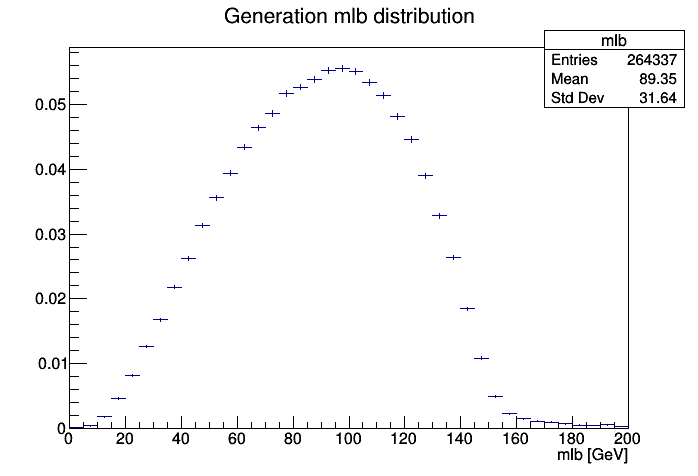
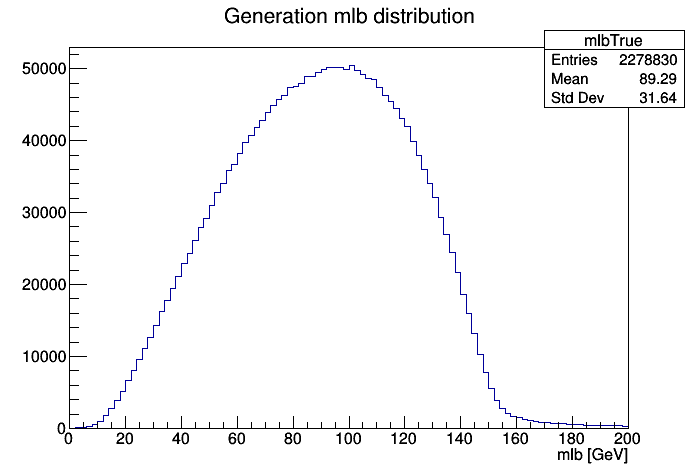
Added new smearing distributions

diff --git a/neuralNetwork/generateDistributions.py b/neuralNetwork/generateDistributions.py
@@ -1,0 +1,225 @@
+
+import ROOT as r
+import os,  sys, fnmatch
+import math
+
+"""
+Code used to generate true simulation/reco distribution from Latino ttbar files used to perform the smearing
+"""
+#===============================================================================0
+#PROGRESS BAR
+#===============================================================================0
+
+def updateProgress(progress):
+    barLength = 20 # Modify this to change the length of the progress bar                                                                                                                                          
+    status = ""
+    if isinstance(progress, int):
+        progress = float(progress)
+    if not isinstance(progress, float):
+        progress = 0
+        status = "error: progress var must be float\r\n"
+    if progress < 0:
+        progress = 0
+        status = "Halt...\r\n"
+    if progress >= 1:
+        progress = 1
+        status = "Done!\r\n"
+    block = int(round(barLength*progress))
+    text = "\rProgress: [{0}] {1}% {2}".format( "#"*block + "-"*(barLength-block), progress*100, status)
+    sys.stdout.write(text)
+    sys.stdout.flush()
+
+#===============================================================================0
+#MAIN FUNCTION
+#===============================================================================0
+
+#Let's consider the ttbar files in a chain
+#baseDir = os.getcwd()+"/"
+baseDir = "/eos/cms/store/group/phys_higgs/cmshww/amassiro/HWWNano/Autumn18_102X_nAODv6_Full2018v6/MCl1loose2018v6__MCCorr2018v6__l2loose__l2tightOR2018v6/"
+filesChain = r.TChain("Events")
+listOfFiles = os.listdir(baseDir)
+pattern = "*"+"TTTo2L2Nu__part"+"*.root"
+
+for index, entry in enumerate(listOfFiles):
+    if fnmatch.fnmatch(entry, pattern):
+        filesChain.AddFile(baseDir+entry)
+
+#Define the histograms
+bwHist = t.TH1F("bw", "Breit-Wigner W boson distribution", 40, 60, 100)
+mlbHistTrue = r.TH1F("mlbTrue", "Mlb generation distribution", 100, 0, 200)
+jerHistTrue = r.TH1F("jerTrue", "JER generation distribution", 100, 0, 500) #Jet energy resolution
+jerHistReco = r.TH1F("jerReco", "JER reco distribution", 100, 0, 500) 
+jerHist = r.TH1F("jer", "Jet energy correction factor", 100, 0, 3)
+lerHistTrue = r.TH1F("lerTrue", "LER generation distribution", 100, 0, 500)
+lerHistReco = r.TH1F("lerReco", "LER reco distribution", 100, 0, 500)
+lerHist = r.TH1F("ler", "Lepton energy correction factor", 100, 0.5, 1.5)
+
+jphatHist = r.TH1F("jphat", "Jet angular distribution", 200, 0, 0.3)
+lphatHist = r.TH1F("lphat", "Lepton angular distribution", 200, 0, 0.02)
+
+#Start the loop
+#nEvents = filesChain.GetEntries()
+nEvents = 4000000
+for index, ev in enumerate(filesChain):
+    if index % 100 == 0: #Update the loading bar every 100 events                                                                                                                                              
+            updateProgress(round(index/float(nEvents), 2))
+
+    if index == 4000000: #For testing only
+        break
+
+    #===================================================
+    #First, get the simulation information
+    #===================================================
+
+    #First of all, select events having exactly two leptons coming from W bosons
+    leptons = []
+    for l, lepton in enumerate(ev.LeptonGen_pt):
+        if abs(ev.LeptonGen_pdgId[l]) == 11 or abs(ev.LeptonGen_pdgId[l]) == 13:
+            if(ev.LeptonGen_isPrompt[l] == 1): #Select only prompt leptons (coming from the top)
+                lepton = r.TLorentzVector()
+                lepton.SetPtEtaPhiM(ev.LeptonGen_pt[l], ev.LeptonGen_eta[l], ev.LeptonGen_phi[l], ev.LeptonGen_mass[l])
+                leptons.append([lepton, ev.LeptonGen_pdgId[l]])
+                
+    #Then, do the same for the b jets
+    bjets = []
+    for j, jet in enumerate(ev.GenJet_pt):
+        if abs(ev.GenJet_partonFlavour[j]) == 5:
+            bjet = r.TLorentzVector()
+            bjet.SetPtEtaPhiM(ev.GenJet_pt[j], ev.GenJet_eta[j], ev.GenJet_phi[j], ev.GenJet_mass[j])
+            bjets.append([bjet, ev.GenJet_partonFlavour[j]])
+
+    if len(leptons) == 2 and len(bjets) == 2:
+        for i in range(2):
+            try:
+                if leptons[i][1] * bjets[i][1] < 0:
+                    #Fill the true histograms
+                    mlbHistTrue.Fill((leptons[i][0] + bjets[i][0]).M())
+                    jerHistTrue.Fill(bjets[i][0].E())
+                    lerHistTrue.Fill(leptons[i][0].E())
+            except:
+                pass
+
+    #===================================================
+    #Then, get the reco information
+    #===================================================
+
+    recoLeptons = []
+
+    if len(ev.Lepton_pt) != 2:
+        continue
+
+    for l, lepton in enumerate(ev.Lepton_pt):
+        Tlep = r.TLorentzVector()
+        Tlep.SetPtEtaPhiM(ev.Lepton_pt[l], ev.Lepton_eta[l], ev.Lepton_phi[l], 0.000511 if (abs(ev.Lepton_pdgId[l]) == 11) else 0.106)
+        recoLeptons.append(Tlep)
+
+    recoJetIndexes = []
+    recobJetIndexes = [] #Instead of keeping all the b-jets in a new collection, let's just keep in the trees their indexes to save memory
+
+    for j, jet in enumerate(ev.CleanJet_pt): #TOCHECK: For now, we only consider b-jets from the clean jets collection
+        recoJetIndexes.append(j)
+        if ev.Jet_btagDeepB[ev.CleanJet_jetIdx[j]] > 0.2217: #TOCHECK: Loose WP for now
+            recobJetIndexes.append(j)
+
+    recobjets = []
+    for j, jet in enumerate(recobJetIndexes):
+        Tb = r.TLorentzVector()
+        Tb.SetPtEtaPhiM(ev.CleanJet_pt[jet], ev.CleanJet_eta[jet], ev.CleanJet_phi[jet], ev.Jet_mass[ev.CleanJet_jetIdx[jet]])
+        recobjets.append(Tb)
+
+    if len(recobjets) != 2:
+        continue
+
+    #Now, let's find the best lepton/b-jet combination based on the invariant mass of the system    
+    combinations = []
+    for l, lepton in enumerate(recoLeptons):
+        for b, bjet in enumerate(recobjets):
+            invMass = (lepton + bjet).M()
+            if invMass - 173.0 < 2.:
+                combinations.append([lepton, bjet])
+
+    for combination in combinations:
+        try:
+            #Fill the reco histograms
+            jerHistReco.Fill(combination[1].E())
+            lerHistReco.Fill(combination[0].E())
+        except:
+            pass
+
+    #Finally, fill the ratio histograms
+    if len(combinations) != 2:
+        continue
+
+    for i in range(2):
+        try:
+            jerHist.Fill(bjets[i][0].E()/combinations[i][1].E())
+            lerHist.Fill(leptons[i][0].E()/combinations[i][0].E())
+
+            jvectorTrue = [math.cos(bjets[i][0].Phi()) * math.sin(bjets[i][0].Theta()), math.sin(bjets[i][0].Phi()) * math.sin(bjets[i][0].Theta()), math.cos(bjets[i][0].Theta())]
+            jvectorReco = [math.cos(combinations[i][1].Phi()) * math.sin(combinations[i][1].Theta()), math.sin(combinations[i][1].Phi()) * math.sin(combinations[i][1].Theta()), math.cos(combinations[i][1].Theta())]
+            jalpha = math.acos(sum([x*y for x,y in zip(jvectorTrue, jvectorReco)]))
+            jphatHist.Fill(jalpha)
+
+            lvectorTrue = [math.cos(leptons[i][0].Phi()) * math.sin(leptons[i][0].Theta()), math.sin(leptons[i][0].Phi()) * math.sin(leptons[i][0].Theta()), math.cos(leptons[i][0].Theta())]
+            lvectorReco = [math.cos(combinations[i][0].Phi()) * math.sin(combinations[i][0].Theta()), math.sin(combinations[i][0].Phi()) * math.sin(combinations[i][0].Theta()), math.cos(combinations[i][0].Theta())]
+            lalpha = math.acos(sum([x*y for x,y in zip(lvectorTrue, lvectorReco)]))
+            lphatHist.Fill(lalpha)
+
+        except:
+            pass
+
+mlbHistTrue.Scale(1.0/mlbhist.Integral())
+mlbHistTrue.SetTitle("Generation mlb distribution")
+mlbHistTrue.GetXaxis().SetTitle("mlb [GeV]")
+
+jerHistTrue.SetTitle("Jet energy response true distribution")
+jerHistTrue.GetXaxis().SetTitle("E [GeV]")
+lerHistTrue.SetTitle("Lepton energy response true distribution")
+lerHistTrue.GetXaxis().SetTitle("E [GeV]")
+jerHistReco.SetTitle("Jet energy response reco distribution")
+jerHistReco.GetXaxis().SetTitle("E [GeV]")
+lerHistReco.SetTitle("Lepton energy response reco distribution")
+lerHistReco.GetXaxis().SetTitle("E [GeV]")
+
+jerHistReco.SetTitle("Jet energy response correction")
+jerHistReco.GetXaxis().SetTitle("Etrue/Ereco [GeV]")
+lerHistReco.SetTitle("Lepton energy response correction")
+lerHistReco.GetXaxis().SetTitle("Etrue/Ereco [GeV]")
+
+jerHist.SetTitle("Jet energy correction factor")
+jerHist.GetXaxis().SetTitle("Etrue/Ereco")
+lerHist.SetTitle("Lepton energy correction factor")
+lerHist.GetXaxis().SetTitle("Etrue/Ereco")
+
+jphatHist.SetTitle("Angular correction for b-jets")
+jphatHist.GetXaxis().SetTitle("#alpha [rad]")
+lphatHist.SetTitle("Angular correction for leptons")
+lphatHist.GetXaxis().SetTitle("#alpha [rad]")
+
+rand = r.TRandom3()
+for i in range(100000):
+    value = rand.BreitWigner(80.379, 2.085)
+    bwhist.Fill(value)
+
+bwHist.Scale(1.0/bwhist.Integral())
+bwHist.SetTitle("Breit-Wigner W boson distribution")
+bwHist.GetXaxis().SetTitle("W mass [GeV]")
+
+#Keep the histograms in a new file
+outputFile = r.TFile.Open("distributions.root", "recreate")
+
+mlbHistTrue.Write()
+jerHistTrue.Write()
+lerHistTrue.Write()
+jerHistReco.Write()
+lerHistReco.Write()
+
+jerHist.Write()
+lerHist.Write()
+
+jphatHist.Write()
+lphatHist.Write()
+
+bwHist.Write()
+
+outputFile.Close()

diff --git a/README.md b/README.md
@@ -38,7 +38,7 @@ This process has been setup to be used with condor, thanks to createJobs.py. The
 - **t**: the search term to be found in the correct directory (eg, TTT02L2Nu__part can be used to process only TTbar MC files).
 Once the .sh files created, then can be launched using the command condor_submit condorjob.tcl.
 
-For the smearing involved in the ttbar reconstruction process, a mlb histogram need to be generated first of all using the generateMLB.py script.
+For the smearing involved in the ttbar reconstruction process, several histograms need to be generated first of all using the generateDistributions.py script.
 
 Then, the MVA can be run on these previously produced files using simply the following command.
       python dnn.py
